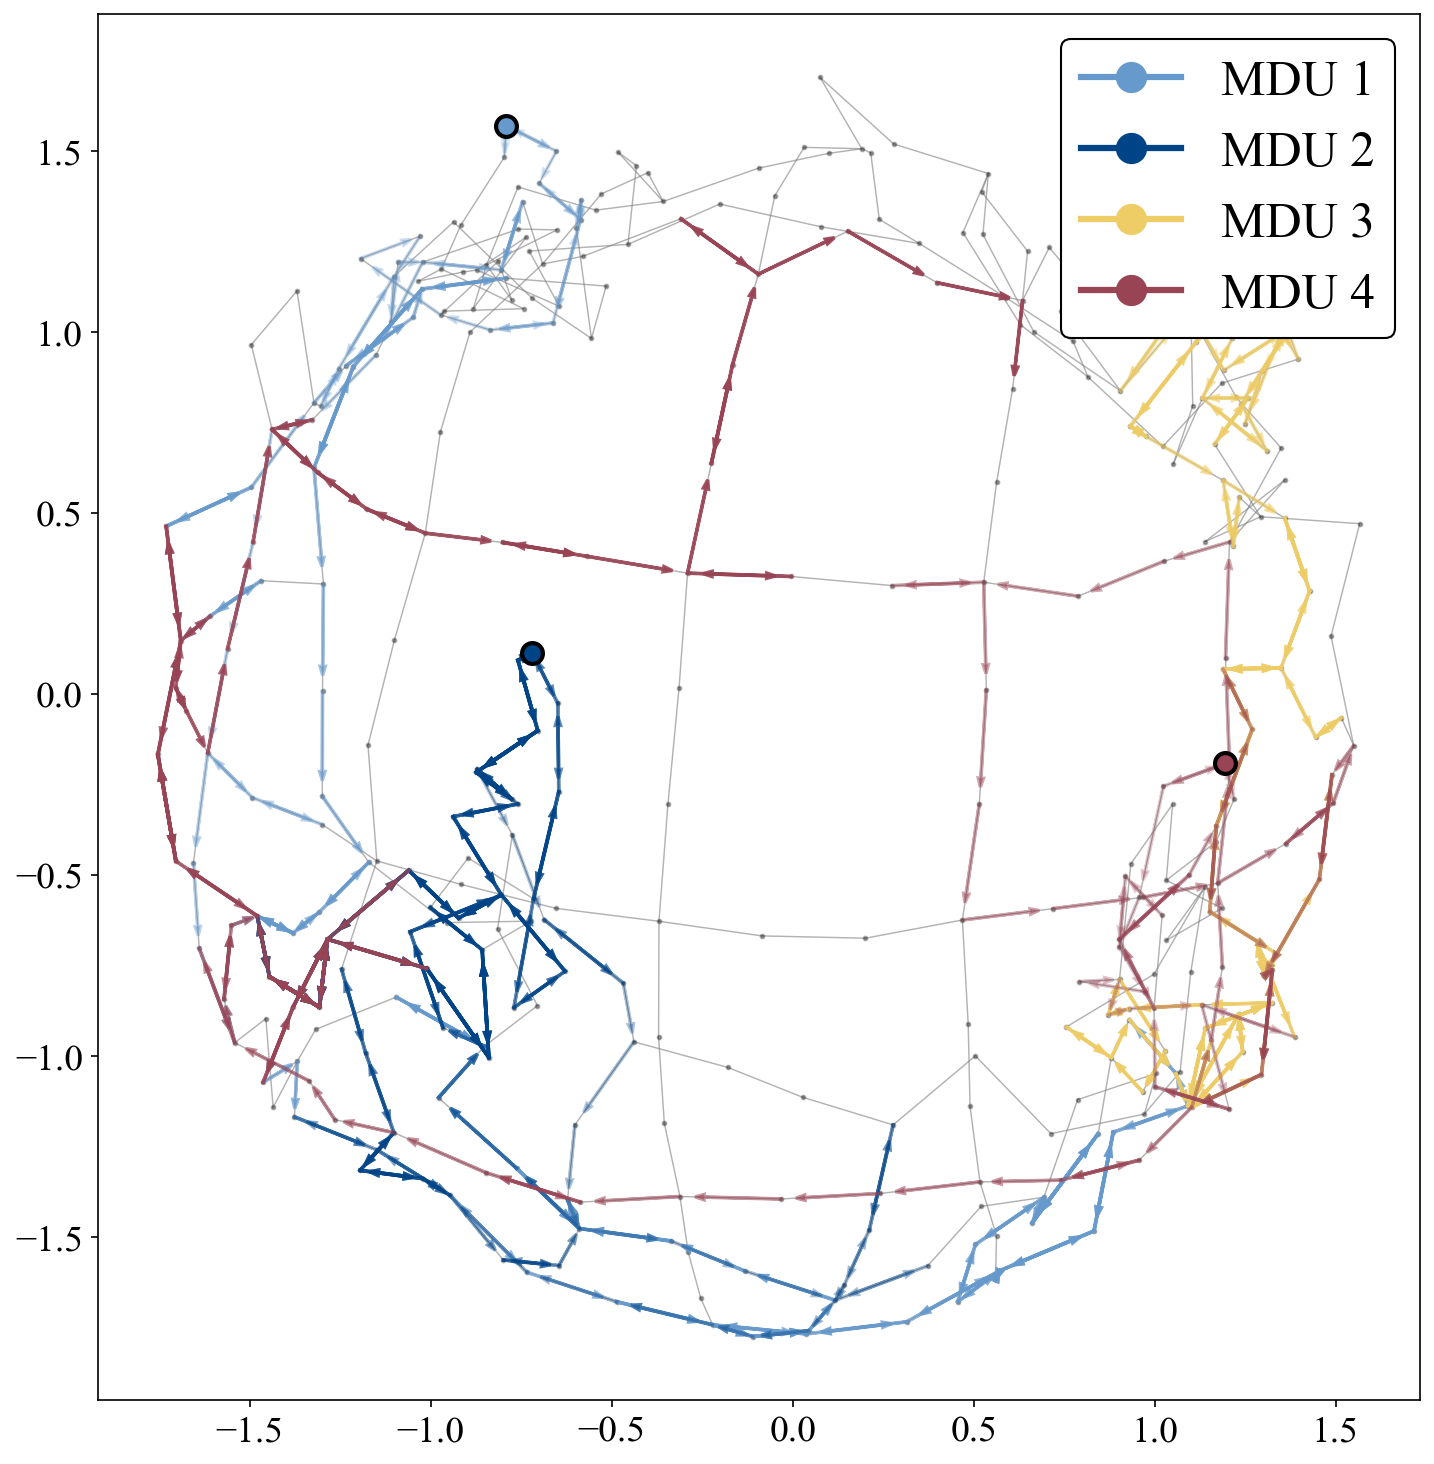
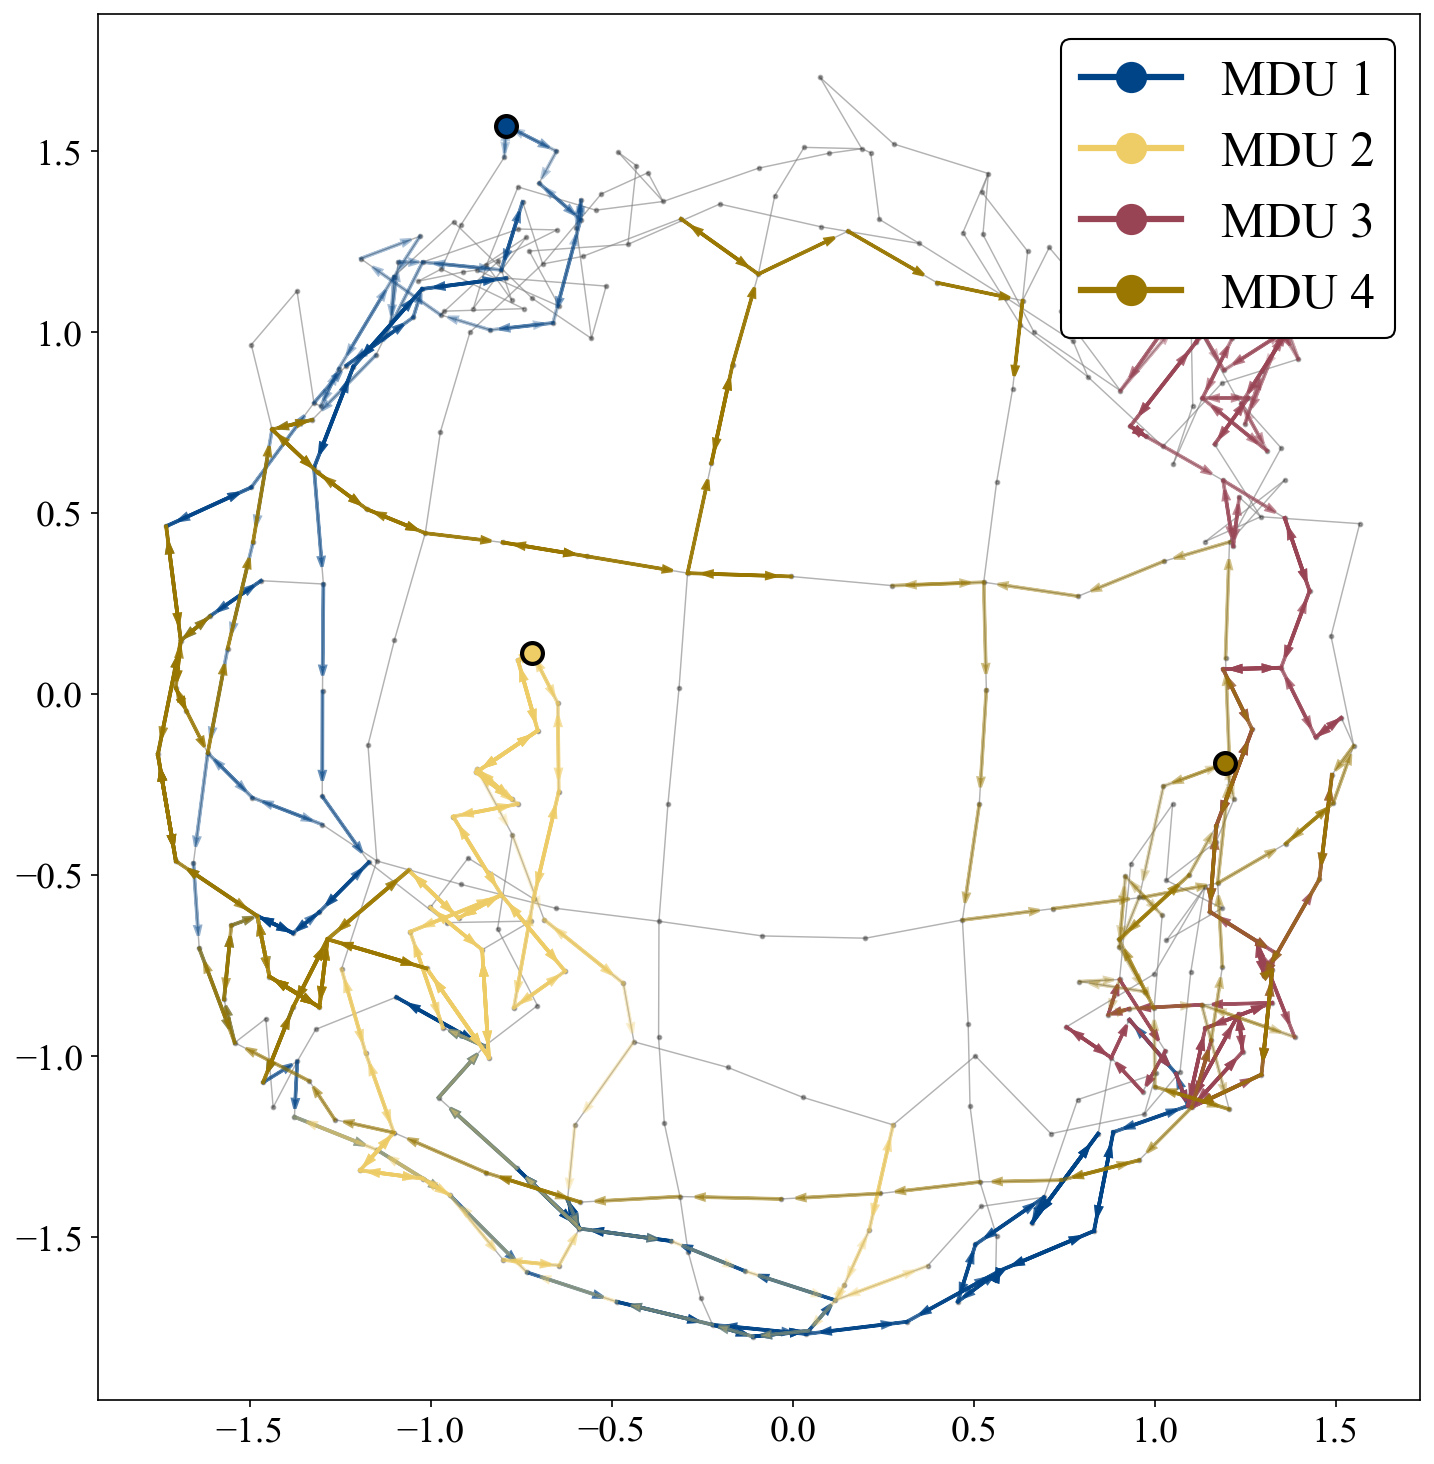
Reorder colors: 4 MDUs use distinct hues (blue/gold/rose/olive)

diff --git a/analysis/plot_topology.py b/analysis/plot_topology.py
@@ -24,7 +24,7 @@ plt.rcParams["axes.labelweight"] = "bold"
 plt.rcParams["axes.titleweight"] = "bold"
 plt.rcParams["font.weight"] = "normal"
 
-TOL_MUTED = ["#6699CC", "#004488", "#EECC66", "#994455", "#997700", "#EE99AA"]
+TOL_MUTED = ["#004488", "#EECC66", "#994455", "#997700", "#6699CC", "#EE99AA"]
 
 
 def compute_2d_layout(positions):
